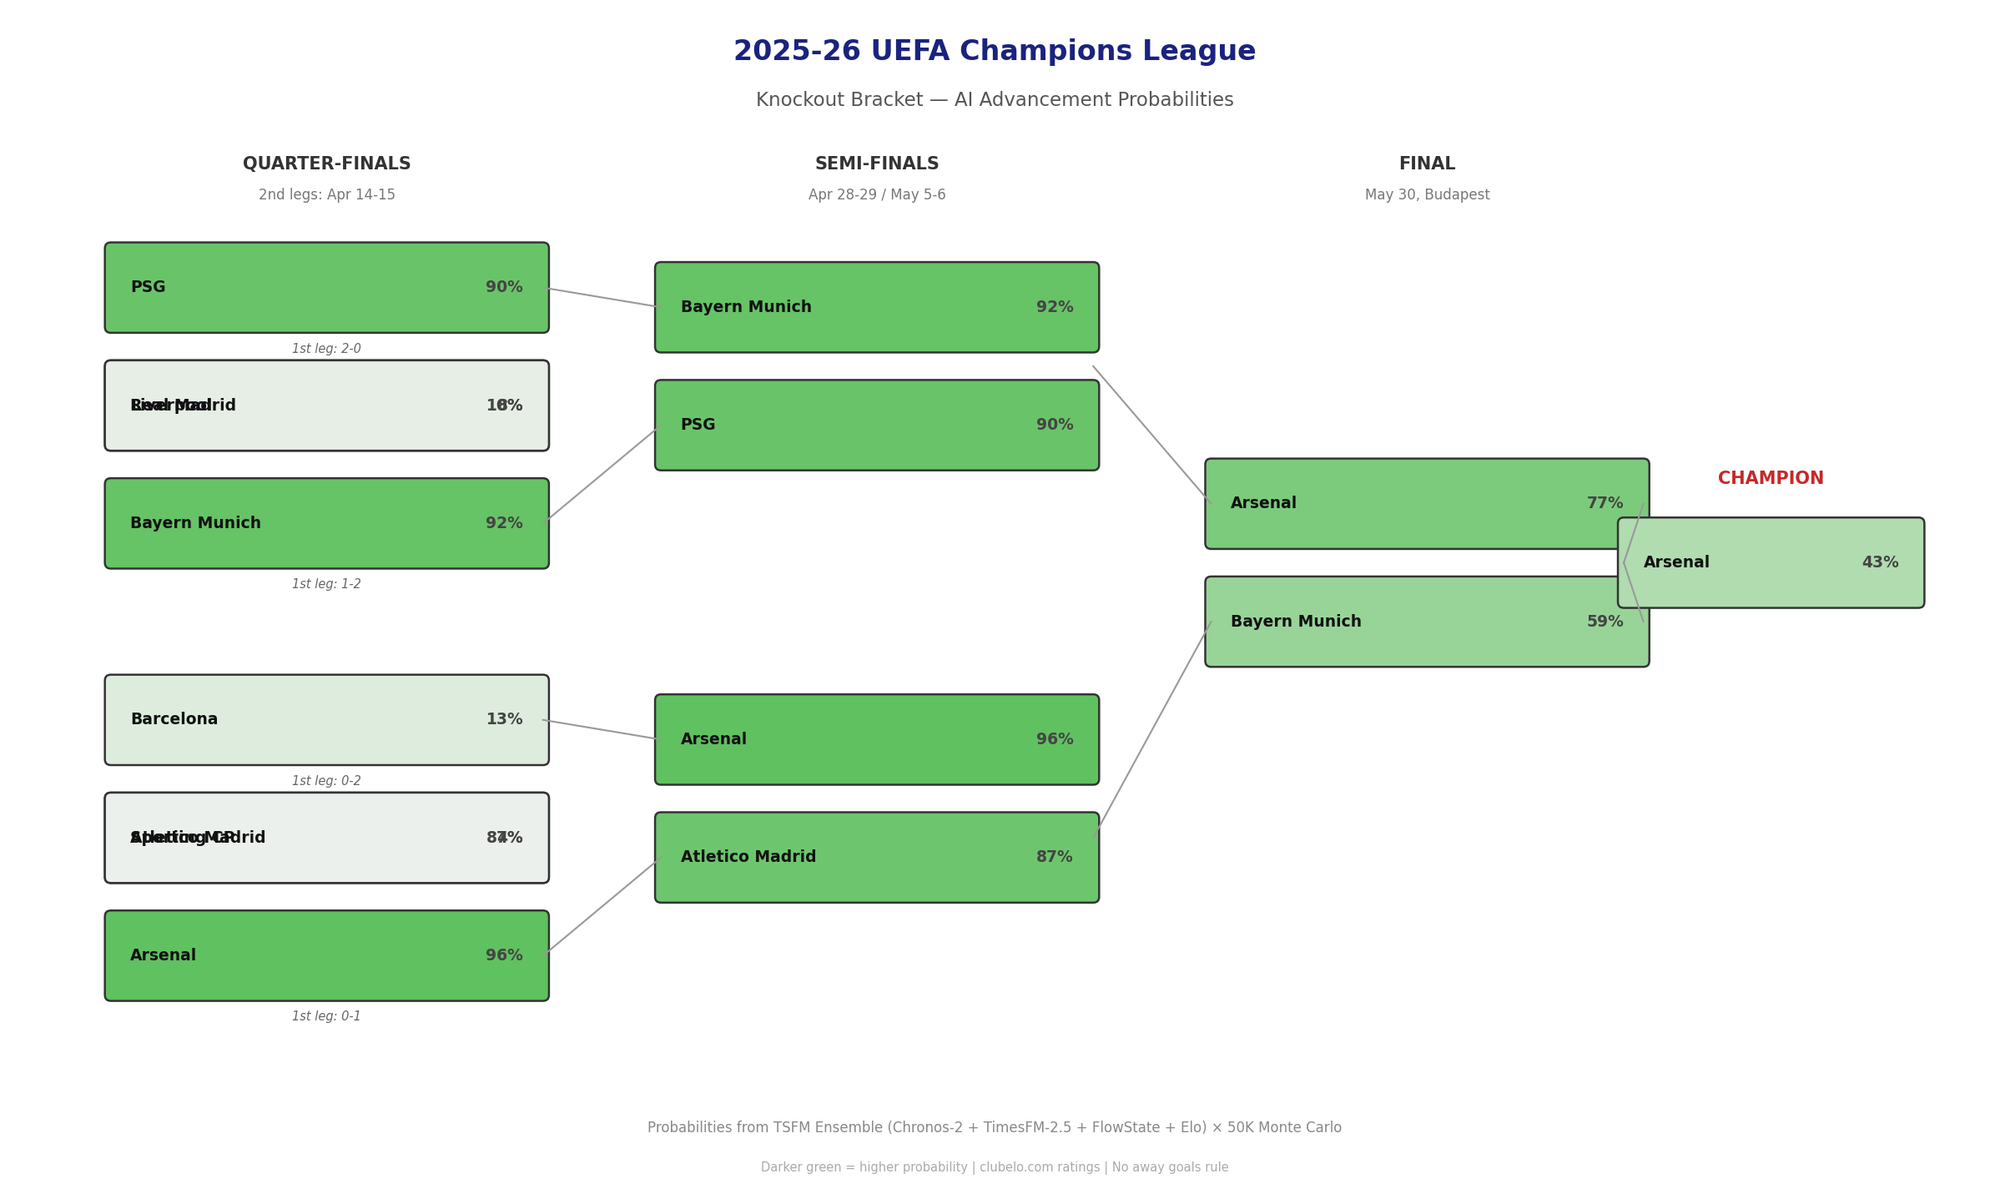
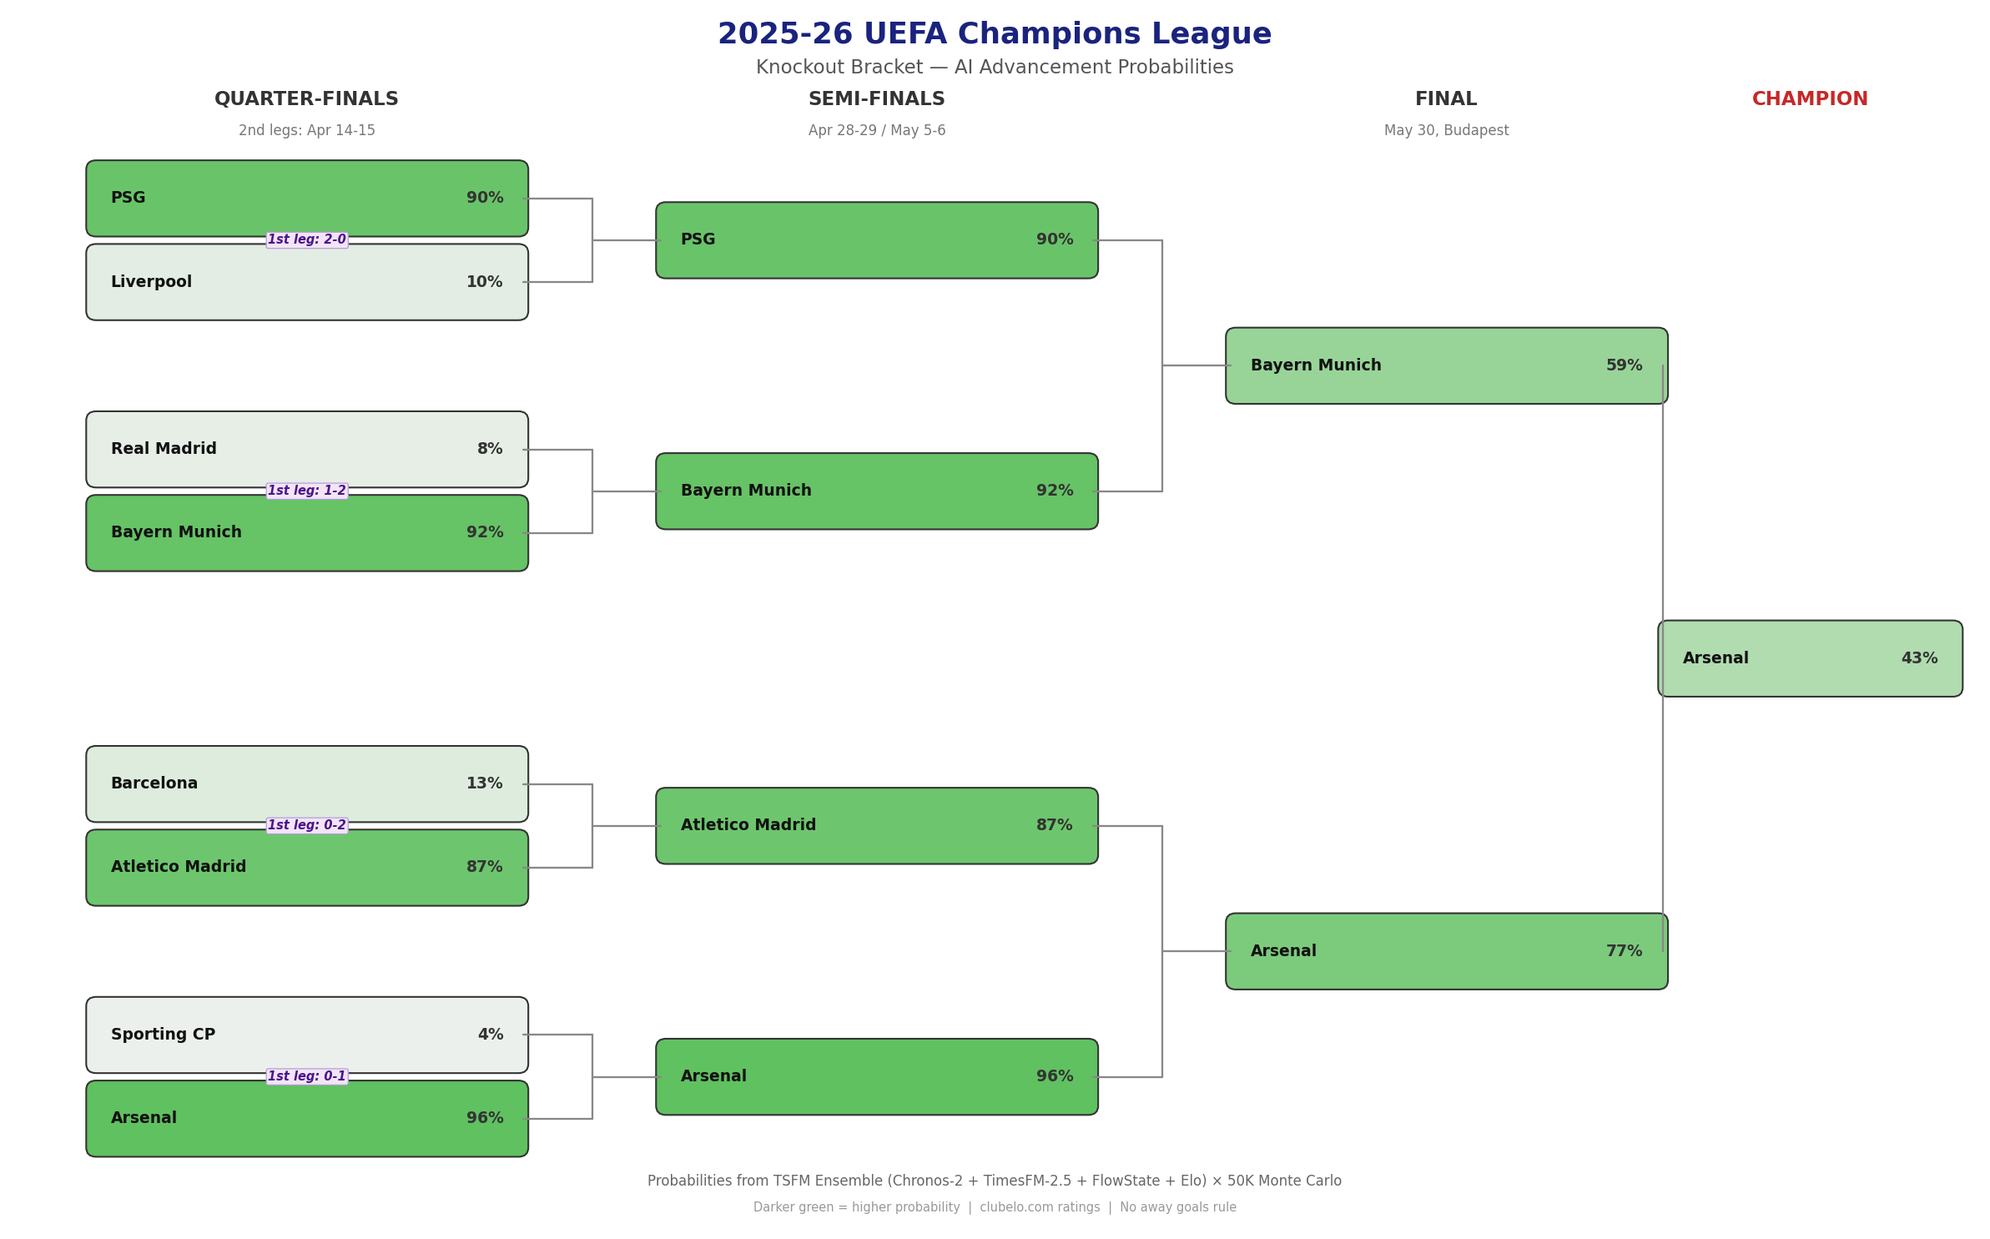
Redo bracket layout — fix box overlaps and misaligned connector lines
Old version had two bugs:
- qf_y_positions = [44, 38, 22, 16] with pair-gap of 6 made QF1-away (y=38)
  overlap with QF2-home (y=38), and same for QF3/QF4
- Connector endpoints were hardcoded numbers that didn't match any box
  edge after recent padding changes, so ├── lines landed off-center

Rewrote with center-based geometry:
- _qf_centers() returns 8 vertical centers derived from 3 constants
  (pair gap, tie gap, half gap); lines can never drift out of sync
- draw_bracket_connector(src1, src2, dst) computes a proper ├── path:
  two horizontal segments + one vertical join + one trunk to dest
- SF slots auto-center on their source QF pair midpoints; Final
  auto-centers between SF1/SF2; Champion centers between finals
- QF/SF/Final headers lifted above first box so sub-captions
  ('2nd legs: Apr 14-15' etc.) no longer collide with team boxes
- 1st-leg score badges now render as small purple chips between each
  QF pair instead of loose italics

Regenerated results/plots/ucl_bracket.png with fresh geometry.

diff --git a/visualization/bracket_viz.py b/visualization/bracket_viz.py
@@ -11,143 +11,264 @@ import numpy as np
 from config import FIRST_LEG_RESULTS, PLOTS_DIR
 
 
+# ── Layout constants (center-based, so lines and boxes stay in sync) ────────
+BOX_W = 22
+BOX_H = 3.6
+LINE_COLOR = "#888"
+LINE_KW = dict(color=LINE_COLOR, linewidth=1.1, solid_capstyle="round")
+
+# Column left edges
+X_QF = 4
+X_SF = 33
+X_F = 62
+X_CH = 84
+
+# Vertical centers for the 8 QF team boxes, paired tightly
+# Pair 1 (QF1): top pair in Silver path
+# Pair 2 (QF2): below pair 1 in Silver path
+# Gap
+# Pair 3 (QF3): top pair in Blue path
+# Pair 4 (QF4): below pair 3 in Blue path
+QF_PAIR_GAP = 4.5   # vertical gap within a tie (home vs away)
+QF_TIE_GAP = 9.0    # vertical gap between consecutive ties in same half
+QF_HALF_GAP = 4.5   # extra gap between Silver half and Blue half (visual break)
+
+
+def _qf_centers() -> list[float]:
+    """Return 8 vertical centers (top→bottom) for the 8 QF boxes."""
+    # Start from top. Pair means (home, away).
+    y0 = 50 - 2            # top anchor a bit below title
+    p = QF_PAIR_GAP
+    t = QF_TIE_GAP
+    h = QF_HALF_GAP
+    return [
+        y0,                                 # QF1 home
+        y0 - p,                             # QF1 away
+        y0 - p - t,                         # QF2 home
+        y0 - 2 * p - t,                     # QF2 away
+        y0 - 2 * p - t - h - t,             # QF3 home
+        y0 - 3 * p - t - h - t,             # QF3 away
+        y0 - 3 * p - 2 * t - h - t,         # QF4 home
+        y0 - 4 * p - 2 * t - h - t,         # QF4 away
+    ]
+
+
+def _pair_mid(a: float, b: float) -> float:
+    return (a + b) / 2
+
+
 def plot_bracket(
     results_df,
     save_path=None,
     subtitle: str = "TSFM Ensemble (Chronos-2 + TimesFM-2.5 + FlowState + Elo)",
 ):
-    """Draw UCL knockout bracket with probabilities.
-
-    Parameters
-    ----------
-    results_df : DataFrame with columns team, P(qf_advance), P(final), P(champion)
-    """
+    """Draw UCL knockout bracket with probabilities."""
     if save_path is None:
         save_path = PLOTS_DIR / "ucl_bracket.png"
 
-    probs = {}
-    for _, row in results_df.iterrows():
-        probs[row["team"]] = {
+    probs = {
+        row["team"]: {
             "qf": row["P(qf_advance)"],
             "final": row["P(final)"],
             "champ": row["P(champion)"],
         }
+        for _, row in results_df.iterrows()
+    }
+
+    # Derive plot height from the QF layout to avoid hand-tuning magic numbers
+    qf_cy = _qf_centers()
+    plot_top = 58
+    plot_bottom = min(qf_cy) - BOX_H / 2 - 4
 
     fig, ax = plt.subplots(figsize=(16, 10))
     ax.set_xlim(0, 100)
-    ax.set_ylim(0, 60)
-    ax.set_aspect("equal")
+    ax.set_ylim(plot_bottom, plot_top)
+    ax.set_aspect("auto")
     ax.axis("off")
 
-    # Colors
+    # ── Helpers ─────────────────────────────────────────────────────────
     def prob_color(p):
-        """Green gradient based on probability."""
         r = 0.95 - 0.6 * p
         g = 0.95 - 0.2 * p
         b = 0.95 - 0.6 * p
-        return (max(r, 0.1), max(g, 0.3), max(b, 0.1))
+        return (max(r, 0.1), max(g, 0.35), max(b, 0.1))
 
-    def draw_team_box(x, y, team, prob, first_leg_info=None, w=22, h=4):
-        color = prob_color(prob)
+    def draw_team_box(x_left, cy, team, prob, w=BOX_W, h=BOX_H, leg=None, bold_name=True):
+        """Draw a box whose vertical center is at `cy`."""
+        y = cy - h / 2
         rect = patches.FancyBboxPatch(
-            (x, y), w, h, boxstyle="round,pad=0.3",
-            facecolor=color, edgecolor="#333", linewidth=1.2
+            (x_left, y), w, h,
+            boxstyle=f"round,pad=0.25,rounding_size=0.5",
+            facecolor=prob_color(prob), edgecolor="#333", linewidth=1.0,
         )
         ax.add_patch(rect)
-        ax.text(x + 1, y + h/2, team, fontsize=9, fontweight="bold",
+        ax.text(x_left + 1.0, cy, team, fontsize=9,
+                fontweight="bold" if bold_name else "normal",
                 va="center", ha="left", color="#111")
-        ax.text(x + w - 1, y + h/2, f"{prob:.0%}", fontsize=9,
-                va="center", ha="right", color="#444", fontweight="bold")
-        if first_leg_info:
-            ax.text(x + w/2, y - 0.8, first_leg_info, fontsize=7,
-                    va="top", ha="center", color="#666", style="italic")
+        ax.text(x_left + w - 1.0, cy, f"{prob:.0%}", fontsize=9,
+                va="center", ha="right", color="#333", fontweight="bold")
+        if leg:
+            ax.text(x_left + w / 2, y - 0.9, leg, fontsize=7,
+                    va="top", ha="center", color="#555", style="italic")
+
+    def box_right(x_left, w=BOX_W):
+        return x_left + w
+
+    def draw_bracket_connector(src1_right, src1_cy, src2_right, src2_cy,
+                               dst_left, dst_cy):
+        """Draw the standard bracket ├── connector: two horizontals + one vertical + one horizontal."""
+        mid_x = (max(src1_right, src2_right) + dst_left) / 2
+        # Horizontal segments from each source to the vertical join
+        ax.plot([src1_right, mid_x], [src1_cy, src1_cy], **LINE_KW)
+        ax.plot([src2_right, mid_x], [src2_cy, src2_cy], **LINE_KW)
+        # Vertical join
+        ax.plot([mid_x, mid_x], [src1_cy, src2_cy], **LINE_KW)
+        # Horizontal trunk into destination
+        ax.plot([mid_x, dst_left], [dst_cy, dst_cy], **LINE_KW)
 
     # ── Title ───────────────────────────────────────────────────────────
-    ax.text(50, 58, "2025-26 UEFA Champions League", fontsize=16,
-            fontweight="bold", ha="center", va="center", color="#1a237e")
-    ax.text(50, 55.5, "Knockout Bracket — AI Advancement Probabilities",
+    ax.text(50, plot_top - 1.2, "2025-26 UEFA Champions League",
+            fontsize=17, fontweight="bold", ha="center", va="center", color="#1a237e")
+    ax.text(50, plot_top - 3.0, "Knockout Bracket — AI Advancement Probabilities",
             fontsize=11, ha="center", va="center", color="#555")
 
-    # ── QF column (left) ────────────────────────────────────────────────
+    # ── QF column ───────────────────────────────────────────────────────
     fl = FIRST_LEG_RESULTS
-    qf_x = 5
     qf_pairs = [
-        ("QF1", fl["QF1"]["home"], fl["QF1"]["away"],
-         f"1st leg: {fl['QF1']['home_goals']}-{fl['QF1']['away_goals']}"),
-        ("QF2", fl["QF2"]["home"], fl["QF2"]["away"],
-         f"1st leg: {fl['QF2']['home_goals']}-{fl['QF2']['away_goals']}"),
-        ("QF3", fl["QF3"]["home"], fl["QF3"]["away"],
-         f"1st leg: {fl['QF3']['home_goals']}-{fl['QF3']['away_goals']}"),
-        ("QF4", fl["QF4"]["home"], fl["QF4"]["away"],
-         f"1st leg: {fl['QF4']['home_goals']}-{fl['QF4']['away_goals']}"),
+        ("QF1", fl["QF1"]["home"], fl["QF1"]["away"], fl["QF1"]),
+        ("QF2", fl["QF2"]["home"], fl["QF2"]["away"], fl["QF2"]),
+        ("QF3", fl["QF3"]["home"], fl["QF3"]["away"], fl["QF3"]),
+        ("QF4", fl["QF4"]["home"], fl["QF4"]["away"], fl["QF4"]),
     ]
 
-    qf_y_positions = [44, 38, 22, 16]
-    for i, (qf_id, home, away, leg_info) in enumerate(qf_pairs):
-        y = qf_y_positions[i]
-        draw_team_box(qf_x, y, home, probs[home]["qf"], leg_info if i % 2 == 0 else None)
-        draw_team_box(qf_x, y - 6, away, probs[away]["qf"], leg_info if i % 2 == 1 else None)
+    # Map team name → qf center for line-drawing later
+    team_cy_qf: dict[str, float] = {}
+    pair_mid_cy: dict[str, float] = {}
 
-    # QF labels
-    ax.text(qf_x + 11, 52, "QUARTER-FINALS", fontsize=10, fontweight="bold",
-            ha="center", color="#333")
-    ax.text(qf_x + 11, 50.5, "2nd legs: Apr 14-15", fontsize=8, ha="center", color="#777")
+    for pair_idx, (qf_id, home, away, leg) in enumerate(qf_pairs):
+        cy_home = qf_cy[pair_idx * 2]
+        cy_away = qf_cy[pair_idx * 2 + 1]
+        team_cy_qf[home] = cy_home
+        team_cy_qf[away] = cy_away
+        pair_mid_cy[qf_id] = _pair_mid(cy_home, cy_away)
+
+        leg_str = f"1st leg: {leg['home_goals']}-{leg['away_goals']}"
+        draw_team_box(X_QF, cy_home, home, probs[home]["qf"])
+        draw_team_box(X_QF, cy_away, away, probs[away]["qf"])
+        # Put 1st-leg caption centered between the pair, to the right of the boxes
+        ax.text(X_QF + BOX_W / 2, _pair_mid(cy_home, cy_away),
+                leg_str, fontsize=7, ha="center", va="center",
+                color="#4a148c", style="italic", fontweight="bold",
+                bbox=dict(boxstyle="round,pad=0.15", facecolor="#f3e5f5",
+                          edgecolor="#b39ddb", linewidth=0.6))
+
+    # ── Column headers ──────────────────────────────────────────────────
+    header_y = plot_top - 5.0
+    header_sub_y = header_y - 1.6
+    ax.text(X_QF + BOX_W / 2, header_y, "QUARTER-FINALS",
+            fontsize=11, fontweight="bold", ha="center", color="#333")
+    ax.text(X_QF + BOX_W / 2, header_sub_y, "2nd legs: Apr 14-15",
+            fontsize=8, ha="center", color="#777")
+
+    ax.text(X_SF + BOX_W / 2, header_y, "SEMI-FINALS",
+            fontsize=11, fontweight="bold", ha="center", color="#333")
+    ax.text(X_SF + BOX_W / 2, header_sub_y, "Apr 28-29 / May 5-6",
+            fontsize=8, ha="center", color="#777")
+
+    ax.text(X_F + BOX_W / 2, header_y, "FINAL",
+            fontsize=11, fontweight="bold", ha="center", color="#333")
+    ax.text(X_F + BOX_W / 2, header_sub_y, "May 30, Budapest",
+            fontsize=8, ha="center", color="#777")
+
+    ax.text(X_CH + 7.5, header_y, "CHAMPION",
+            fontsize=11, fontweight="bold", ha="center", color="#c62828")
 
     # ── SF column ───────────────────────────────────────────────────────
-    sf_x = 33
+    # SF slot centered between its two source QF pair midpoints
+    sf_cy = {
+        "SF1_top":    pair_mid_cy["QF1"],
+        "SF1_bottom": pair_mid_cy["QF2"],
+        "SF2_top":    pair_mid_cy["QF3"],
+        "SF2_bottom": pair_mid_cy["QF4"],
+    }
 
-    # Silver path SF — show P(qf_advance) i.e. "probability of reaching this stage"
-    sf1_teams = [fl["QF1"]["home"], fl["QF1"]["away"], fl["QF2"]["home"], fl["QF2"]["away"]]
-    sf1_top2 = sorted(sf1_teams, key=lambda t: probs[t]["qf"], reverse=True)[:2]
-    draw_team_box(sf_x, 43, sf1_top2[0], probs[sf1_top2[0]]["qf"])
-    draw_team_box(sf_x, 37, sf1_top2[1], probs[sf1_top2[1]]["qf"])
+    # For each SF slot, pick the team most likely to reach SF based on QF advance prob
+    def top_from_pair(home, away):
+        return home if probs[home]["qf"] >= probs[away]["qf"] else away
 
-    # Blue path SF — same: P(qf_advance)
-    sf2_teams = [fl["QF3"]["home"], fl["QF3"]["away"], fl["QF4"]["home"], fl["QF4"]["away"]]
-    sf2_top2 = sorted(sf2_teams, key=lambda t: probs[t]["qf"], reverse=True)[:2]
-    draw_team_box(sf_x, 21, sf2_top2[0], probs[sf2_top2[0]]["qf"])
-    draw_team_box(sf_x, 15, sf2_top2[1], probs[sf2_top2[1]]["qf"])
+    sf_occupants = {
+        "SF1_top":    top_from_pair(fl["QF1"]["home"], fl["QF1"]["away"]),
+        "SF1_bottom": top_from_pair(fl["QF2"]["home"], fl["QF2"]["away"]),
+        "SF2_top":    top_from_pair(fl["QF3"]["home"], fl["QF3"]["away"]),
+        "SF2_bottom": top_from_pair(fl["QF4"]["home"], fl["QF4"]["away"]),
+    }
+    for slot, team in sf_occupants.items():
+        draw_team_box(X_SF, sf_cy[slot], team, probs[team]["qf"])
 
-    ax.text(sf_x + 11, 52, "SEMI-FINALS", fontsize=10, fontweight="bold",
-            ha="center", color="#333")
-    ax.text(sf_x + 11, 50.5, "Apr 28-29 / May 5-6", fontsize=8, ha="center", color="#777")
+    # Connectors: each QF pair → its SF slot
+    pair_to_slot = {
+        "QF1": "SF1_top", "QF2": "SF1_bottom",
+        "QF3": "SF2_top", "QF4": "SF2_bottom",
+    }
+    for pair_idx, (qf_id, home, away, _) in enumerate(qf_pairs):
+        cy_home = qf_cy[pair_idx * 2]
+        cy_away = qf_cy[pair_idx * 2 + 1]
+        slot = pair_to_slot[qf_id]
+        draw_bracket_connector(
+            box_right(X_QF), cy_home,
+            box_right(X_QF), cy_away,
+            X_SF, sf_cy[slot],
+        )
 
     # ── Final column ────────────────────────────────────────────────────
-    f_x = 61
-    all_teams_sorted = sorted(probs.keys(), key=lambda t: probs[t]["final"], reverse=True)
-    draw_team_box(f_x, 33, all_teams_sorted[0], probs[all_teams_sorted[0]]["final"])
-    draw_team_box(f_x, 27, all_teams_sorted[1], probs[all_teams_sorted[1]]["final"])
+    # Two Final slots centered on each SF pair midpoint
+    final_cy = {
+        "F_top":    _pair_mid(sf_cy["SF1_top"], sf_cy["SF1_bottom"]),
+        "F_bottom": _pair_mid(sf_cy["SF2_top"], sf_cy["SF2_bottom"]),
+    }
 
-    ax.text(f_x + 11, 52, "FINAL", fontsize=10, fontweight="bold",
-            ha="center", color="#333")
-    ax.text(f_x + 11, 50.5, "May 30, Budapest", fontsize=8, ha="center", color="#777")
+    # Pick top likely-finalist per path: highest P(final) among SF1 / SF2 occupants
+    sf1_teams = [sf_occupants["SF1_top"], sf_occupants["SF1_bottom"]]
+    sf2_teams = [sf_occupants["SF2_top"], sf_occupants["SF2_bottom"]]
+    f_top_team = max(sf1_teams, key=lambda t: probs[t]["final"])
+    f_bot_team = max(sf2_teams, key=lambda t: probs[t]["final"])
 
-    # ── Champion ────────────────────────────────────────────────────────
-    ch_x = 82
+    draw_team_box(X_F, final_cy["F_top"], f_top_team, probs[f_top_team]["final"])
+    draw_team_box(X_F, final_cy["F_bottom"], f_bot_team, probs[f_bot_team]["final"])
+
+    # SF → Final connectors
+    draw_bracket_connector(
+        box_right(X_SF), sf_cy["SF1_top"],
+        box_right(X_SF), sf_cy["SF1_bottom"],
+        X_F, final_cy["F_top"],
+    )
+    draw_bracket_connector(
+        box_right(X_SF), sf_cy["SF2_top"],
+        box_right(X_SF), sf_cy["SF2_bottom"],
+        X_F, final_cy["F_bottom"],
+    )
+
+    # ── Champion column ─────────────────────────────────────────────────
+    ch_cy = _pair_mid(final_cy["F_top"], final_cy["F_bottom"])
+    # Highest P(champion) overall
+    all_teams_sorted = sorted(probs.keys(), key=lambda t: probs[t]["champ"], reverse=True)
     champion = all_teams_sorted[0]
-    draw_team_box(ch_x, 30, champion, probs[champion]["champ"], w=15)
-    ax.text(ch_x + 7.5, 36, "CHAMPION", fontsize=10, fontweight="bold",
-            ha="center", color="#c62828")
+    draw_team_box(X_CH, ch_cy, champion, probs[champion]["champ"], w=15)
 
-    # ── Connection lines ────────────────────────────────────────────────
-    line_kw = dict(color="#999", linewidth=1, linestyle="-")
-    # QF → SF lines
-    ax.plot([27, 33], [46, 45], **line_kw)
-    ax.plot([27, 33], [34, 39], **line_kw)
-    ax.plot([27, 33], [24, 23], **line_kw)
-    ax.plot([27, 33], [12, 17], **line_kw)
-    # SF → Final
-    ax.plot([55, 61], [42, 35], **line_kw)
-    ax.plot([55, 61], [18, 29], **line_kw)
-    # Final → Champion
-    ax.plot([83, 82], [35, 32], **line_kw)
-    ax.plot([83, 82], [29, 32], **line_kw)
+    # Final → Champion connector (same ├── pattern)
+    draw_bracket_connector(
+        box_right(X_F), final_cy["F_top"],
+        box_right(X_F), final_cy["F_bottom"],
+        X_CH, ch_cy,
+    )
 
-    # ── Legend ──────────────────────────────────────────────────────────
-    ax.text(50, 3, f"Probabilities from {subtitle} \u00d7 50K Monte Carlo",
-            fontsize=8, ha="center", color="#888")
-    ax.text(50, 1, "Darker green = higher probability | clubelo.com ratings | No away goals rule",
-            fontsize=7, ha="center", color="#aaa")
+    # ── Footer ──────────────────────────────────────────────────────────
+    ax.text(50, plot_bottom + 2.2,
+            f"Probabilities from {subtitle} \u00d7 50K Monte Carlo",
+            fontsize=8, ha="center", color="#666")
+    ax.text(50, plot_bottom + 0.8,
+            "Darker green = higher probability  |  clubelo.com ratings  |  No away goals rule",
+            fontsize=7, ha="center", color="#999")
 
     plt.tight_layout()
     fig.savefig(save_path, dpi=150, bbox_inches="tight", facecolor="white")
@@ -165,12 +286,14 @@ def plot_probability_bars(results_df, save_path=None, subtitle: str = "TSFM Ense
     fig, ax = plt.subplots(figsize=(10, 6))
     colors = plt.cm.YlGn(np.linspace(0.3, 0.9, len(df)))
 
-    bars = ax.barh(df["team"], df["P(champion)"] * 100, color=colors, edgecolor="#333", linewidth=0.5)
+    bars = ax.barh(df["team"], df["P(champion)"] * 100, color=colors,
+                   edgecolor="#333", linewidth=0.5)
 
     for bar, (_, row) in zip(bars, df.iterrows()):
         width = bar.get_width()
-        ax.text(width + 0.5, bar.get_y() + bar.get_height()/2,
-                f"{row['P(champion)']:.1%}", va="center", fontsize=10, fontweight="bold")
+        ax.text(width + 0.5, bar.get_y() + bar.get_height() / 2,
+                f"{row['P(champion)']:.1%}", va="center",
+                fontsize=10, fontweight="bold")
 
     ax.set_xlabel("P(Champion) %", fontsize=12)
     ax.set_title(f"2025-26 UCL Winner Probabilities\n({subtitle}, 50K Monte Carlo)",
